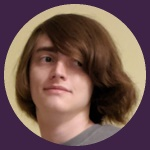
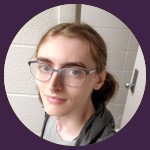
Updated pic and songs

diff --git a/index.html b/index.html
@@ -41,7 +41,7 @@ https://templatemo.com/tm-531-reflux
             </div>
             <div class="author-content">
               <h4>Cadence Quick</h4>
-              <span>Indie game dev & electronic music artist</span>
+              <span>Indie game dev & music artist</span>
               <div class="pride-flag">
                 <img src="assets/images/flag.png"><span> they/them</span></img>
               </div>
@@ -108,10 +108,10 @@ https://templatemo.com/tm-531-reflux
               <div class="col-md-6">
                 <div class="left-text" style="width: 150%;">
                   <h4 style="margin-top: 0px;">Discography</h4>
-                  <p>I make instrumental electronic music. Here are some of my favorite tracks I've done.</p>
-                  <iframe style="border: 0; width: 150%; height: 42px;" src="https://bandcamp.com/EmbeddedPlayer/track=274846592/size=small/bgcol=333333/linkcol=ffffff/transparent=true/" seamless><a href="https://decadedecaf.bandcamp.com/track/i-should-be-wearing-an-eyepatch">I Should Be Wearing an Eyepatch by Cade Quick</a></iframe>
-                  <iframe style="border: 0; width: 150%; height: 42px;" src="https://bandcamp.com/EmbeddedPlayer/track=2143705331/size=small/bgcol=333333/linkcol=ffffff/transparent=true/" seamless><a href="https://decadedecaf.bandcamp.com/track/precipitation-50">Precipitation: 50% by Cade Quick</a></iframe>
-                  <iframe style="border: 0; width: 150%; height: 42px;" src="https://bandcamp.com/EmbeddedPlayer/album=1238813711/size=small/bgcol=333333/linkcol=ffffff/track=3641799546/transparent=true/" seamless><a href="https://decadedecaf.bandcamp.com/album/rainbow-festival-3">Rainbow Festival 3 by Cade Quick</a></iframe>
+                  <p>I make soundtrack music. Here are some of my favorite tracks I've done.</p>
+                  <iframe style="border: 0; width: 150%; height: 42px;" src="https://bandcamp.com/EmbeddedPlayer/album=2942970425/size=small/bgcol=333333/linkcol=ffffff/track=2565506089/transparent=true/" seamless><a href="https://decadedecaf.bandcamp.com/album/pengunner-reloaded">Pengunner Reloaded by DecadeDecaf</a></iframe>
+                  <iframe style="border: 0; width: 150%; height: 42px;" src="https://bandcamp.com/EmbeddedPlayer/album=2942970425/size=small/bgcol=333333/linkcol=ffffff/track=107367380/transparent=true/" seamless><a href="https://decadedecaf.bandcamp.com/album/pengunner-reloaded">Pengunner Reloaded by DecadeDecaf</a></iframe>
+                  <iframe style="border: 0; width: 150%; height: 42px;" src="https://bandcamp.com/EmbeddedPlayer/album=2942970425/size=small/bgcol=333333/linkcol=ffffff/track=736066627/transparent=true/" seamless><a href="https://decadedecaf.bandcamp.com/album/pengunner-reloaded">Pengunner Reloaded by DecadeDecaf</a></iframe>
                   <div class="white-button">
                     <a href="https://decadedecaf.bandcamp.com/">Bandcamp</a>
                   </div>
